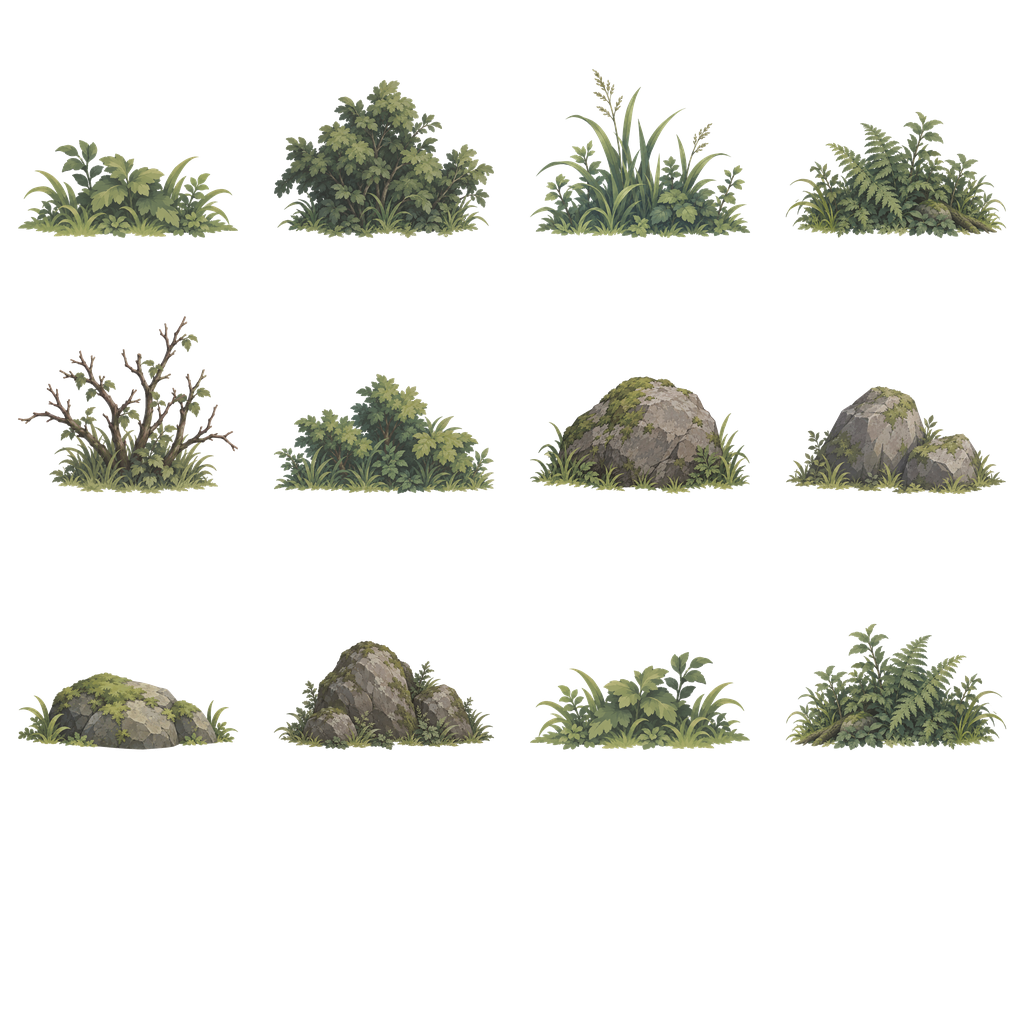
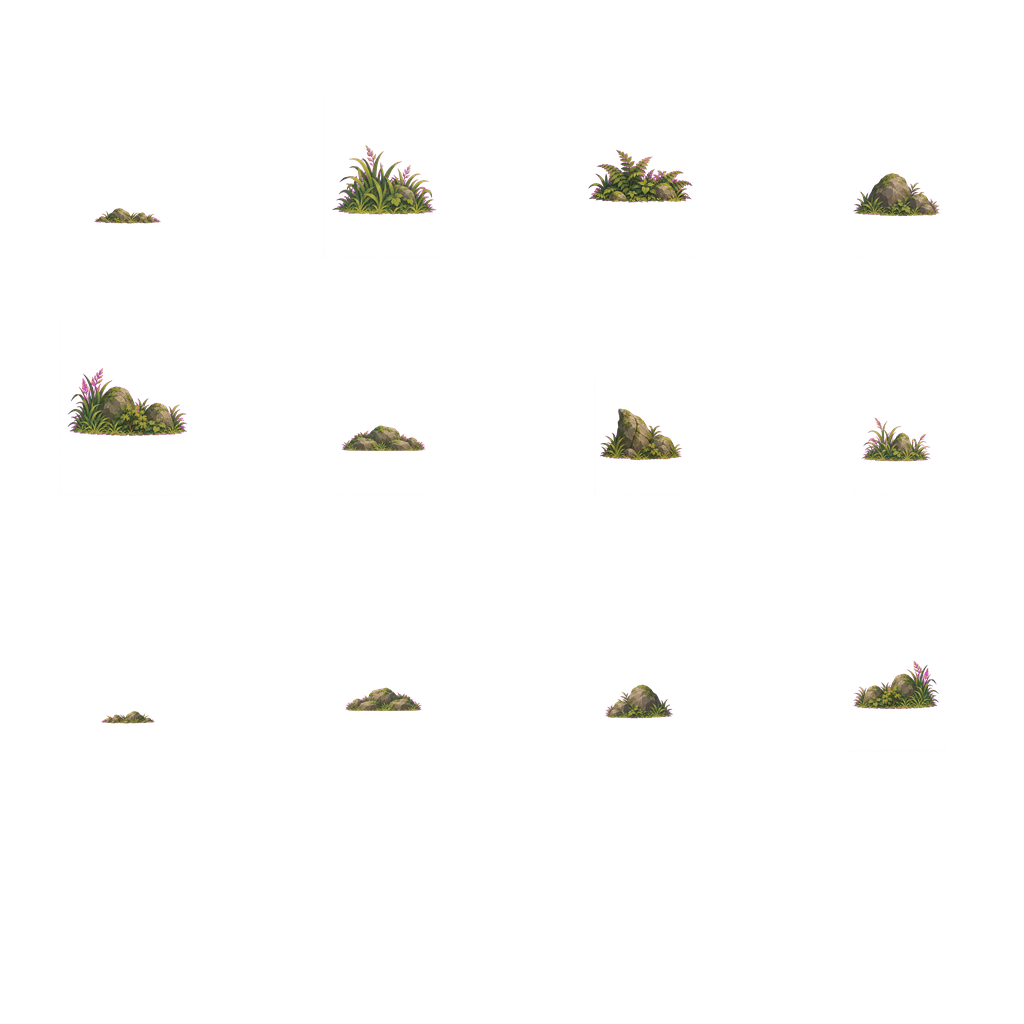
Add files via upload

diff --git a/sidescroll.js b/sidescroll.js
@@ -732,7 +732,7 @@
   // v1.8.81: forest dressing now comes from one authored atlas.
   // This removes the old per-file fallback path which could substitute the
   // full woodland source sheet when an individual PNG failed to load.
-  textures.dressingAtlas = createImageTexture('sidescroll-dressing-atlas.png?v=0.2.67', 'SideScroll dressing atlas');
+  textures.dressingAtlas = createImageTexture('sidescroll-dressing-atlas.png?v=0.2.68', 'SideScroll dressing atlas');
   textures.treeAtlas = createImageTexture('sidescroll-tree-atlas.png?v=0.2.67', 'SideScroll tree atlas');
   const assetUv = {
     tree01: { scale: [0.237304688, 0.315429688], offset: [0.006347656, 0.510742188] },

diff --git a/README.md b/README.md
@@ -1,8 +1,9 @@
-# SideScroll v0.2.67
+# SideScroll v0.2.68
 
-Tree baseline alignment fix.
+Updated grassy rock dressing set.
 
-- corrected the new standing-tree texture pages so the visible grounded base sits at the bottom of each texture frame
-- rebuilt the tree atlas with the corrected baseline alignment
-- retained the existing UV rectangles, procedural tree scale, placement, fog and dressing settings
-- bumped the PWA cache so the corrected atlas replaces v0.2.66
+- replaced the ground dressing textures with the newly generated grassy rock set
+- processed the new assets through the soft alpha + colour dilation pipeline
+- rebuilt the dressing atlas using the new textures
+- anchored the new dressing textures flush to the baseline to avoid floating
+- left tree placement, fog, controls and puzzle logic unchanged
